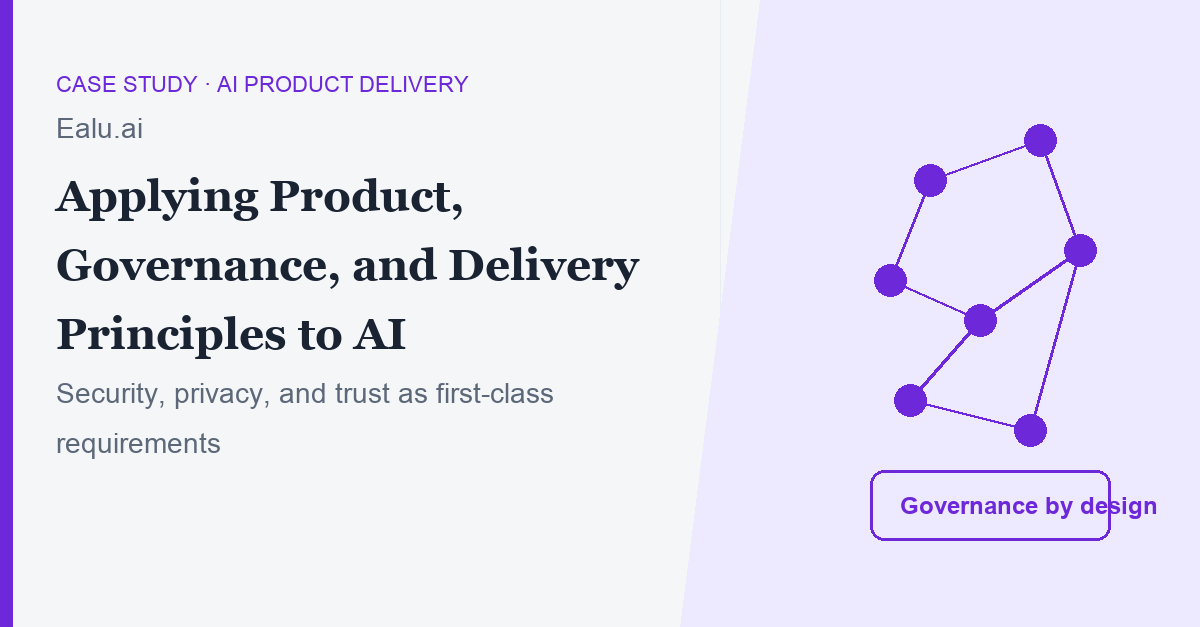
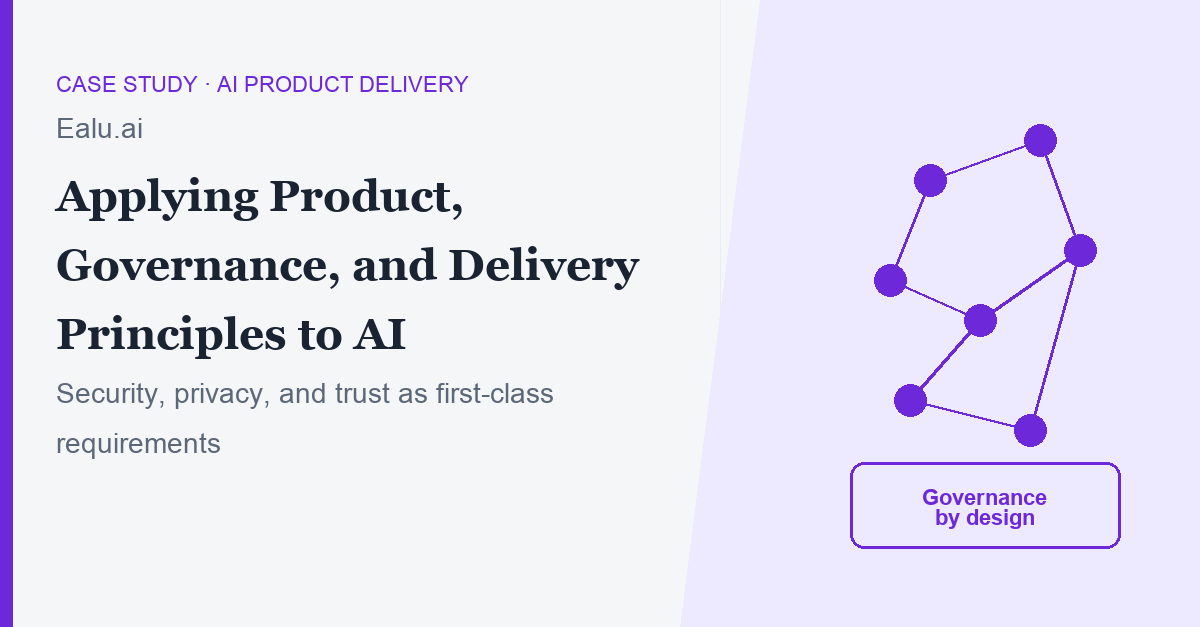
Fix truncated label on Ealu case study thumbnail.
Center "Governance by design" on two lines inside a wider callout box so the full phrase is visible.

Changed region(s): [[0.7092, 0.7273, 0.9867, 0.8788]]

diff --git a/scripts/generate-thumbnails.py b/scripts/generate-thumbnails.py
@@ -276,6 +276,28 @@ def draw_vineti() -> Path:
     return save("case-vineti.png", image)
 
 
+def draw_centered_lines_in_box(
+    draw: ImageDraw.ImageDraw,
+    box: tuple[int, int, int, int],
+    lines: list[str],
+    font: ImageFont.FreeTypeFont,
+    color: str,
+    *,
+    line_gap: int = 4,
+) -> None:
+    x0, y0, x1, y1 = box
+    heights = [font.getbbox(line)[3] - font.getbbox(line)[1] for line in lines]
+    total_height = sum(heights) + line_gap * (len(lines) - 1)
+    cursor_y = y0 + ((y1 - y0) - total_height) // 2
+
+    for line, height in zip(lines, heights):
+        bbox = font.getbbox(line)
+        text_width = bbox[2] - bbox[0]
+        x = x0 + ((x1 - x0) - text_width) // 2
+        draw.text((x, cursor_y), line, font=font, fill=rgb(color))
+        cursor_y += height + line_gap
+
+
 def draw_ealu() -> Path:
     image, draw = base_canvas("#6d28d9", "#ede9fe")
     accent = rgb("#6d28d9")
@@ -299,8 +321,14 @@ def draw_ealu() -> Path:
         x1, y1 = nodes[b]
         draw.line((x0, y0, x1, y1), fill=accent, width=3)
 
-    draw.rounded_rectangle((870, 470, 1110, 540), radius=14, outline=accent, width=3)
-    draw.text((900, 492), "Governance by design", font=load_font(FONT_SANS, 24), fill=accent)
+    draw.rounded_rectangle((850, 462, 1120, 548), radius=14, outline=accent, width=3)
+    draw_centered_lines_in_box(
+        draw,
+        (850, 462, 1120, 548),
+        ["Governance", "by design"],
+        load_font(FONT_SANS, 22),
+        "#6d28d9",
+    )
 
     fonts = {
         "tag": load_font(FONT_SANS_REG, 22),